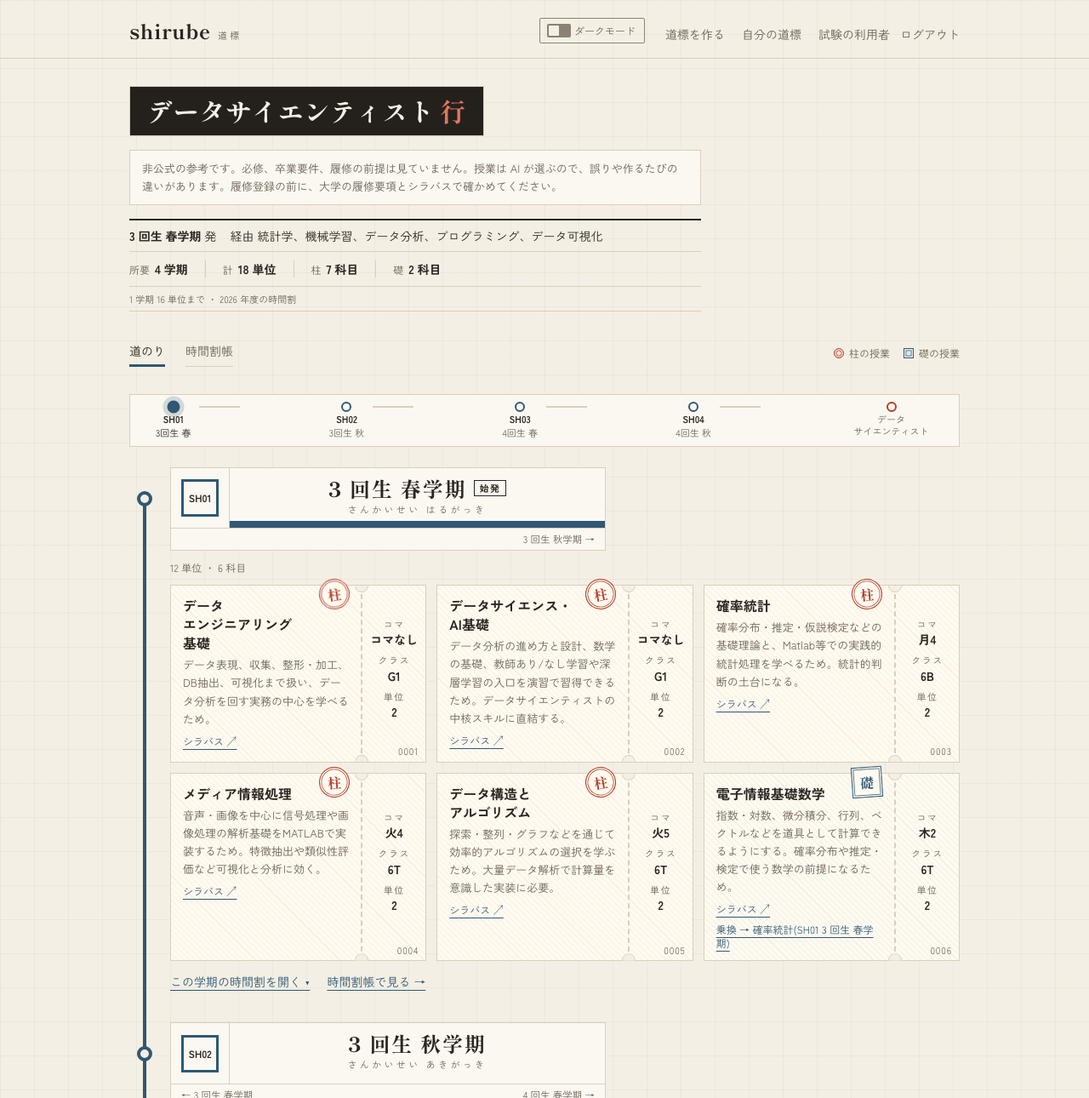
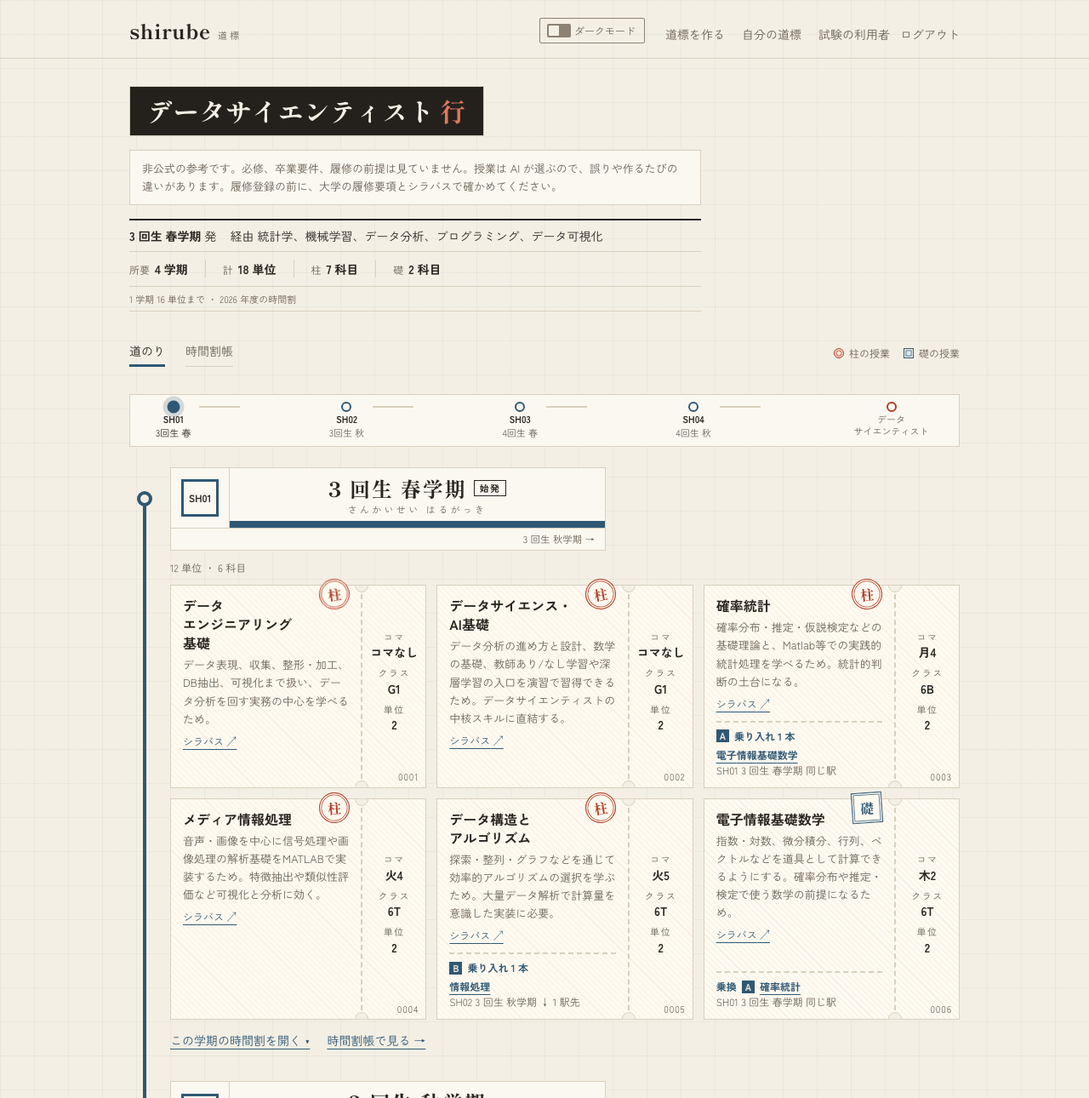
docs: README と CLAUDE.md を系統の印と乗換の欄に合わせ、切符の画像と動きの GIF を撮り直す
ADR 0086 で乗り換えの線をやめたので、線を説明する文と、線を写した
画像と GIF を替えた。

- README: 主な機能の説明を、英字の印、礎の乗換の欄、柱の乗り入れの欄、
  押すと移って戻れることに替え、動きを 3 つにして ADR 0086 への導線を
  足した。GIF と道のりの画像の代替の文も直した
- CLAUDE.md: 動きの説明から線(TransferLines、道筋、端の札、タッチの
  待ち)を外し、印と欄と移り方と戻り方を書いた。flows.spec.ts の一覧の
  乗り換えの線を乗換の欄に替えた
- docs/images: 切符が写る 3 枚(道のり、時間割帳、375px の切符)を前回と
  同じ撮り方で撮り直した。入力、作成中、結果の上部は切符が写らないので
  そのまま
- demo.gif: トップから見本の道標までスクロールし、情報処理の乗換の欄を
  押してデータ構造とアルゴリズムへ移り、戻る道で帰るところを撮った
  (幅 800、毎秒 8 コマ、80 色、ディザ無しで 5.4MB)。コマを 1 枚ずつ
  見て確かめた

Claude-Session: https://claude.ai/code/session_01Uv4W9cMkDQr3YL2szVJVhC

diff --git a/CLAUDE.md b/CLAUDE.md
@@ -30,7 +30,7 @@ frontend(`frontend/` で実行)
 
 - `pnpm install`
 - `pnpm lint && pnpm typecheck && pnpm test && pnpm format:check`(CI と同じ。テストは Vitest で `src/` の表示の決まりだけ。CI は先に `pnpm gen:api` で型を作り直し、差があれば落ちる)
-- `pnpm test:e2e` で、画面の通しの試験(Playwright、`e2e/`)を流す(初めは `pnpm exec playwright install chromium webkit`)。手元でも CI でも、試験が試験用の鍵と `SITE_URL`、本番と同じに `AUTH_URL`(`e2e/env.ts`)でビルドしてから `pnpm start --port 3100` で立て、ブラウザが呼ぶ `/api/` は全て止めてから、その試験で使うものだけを見本の道標などの決まった JSON で返し、ログインは試験用の鍵で作ったセッションで入る。差し替えていない `/api/` が呼ばれたときと、差し替えた答えを使い切らなかったときは落ちる(`answer` は GET に同じ JSON を何度でも返す。`respond` は方法と状態コードを付けた答えを書いた順に 1 つずつ返し(`until` に渡した Promise が解けるまで返さずに待てる)、書いた数より多く呼ばれたら落ちる。同じ方法と道を 2 度差し替えるとその場で誤りにする。作成中と失敗の道標は `asRunning` と `asFailed` で作る)。全ての画面を幅 375px と 1280px、明るい見た目と暗い見た目で開き(畳んだ欄は開き、フォントの読み込みを待つ)、地の方眼の線と切符の地紋、切符の切り欠きと路線の駅の点と線の疑似要素を消してから axe で WCAG 2.2 の A と AA の違反が 0 か、axe が判定できない色の差が手で測った文字(`HAND_CHECKED_CONTRAST`、axe の理由ごと)だけか、幅 320px で横にはみ出さないか、CDP の `Page.setFontSizes` でブラウザの既定の文字の大きさを 2 倍(16px と等幅の 13px を 32px と 26px)にして(ブラウザの文字の設定と同じに rem のメディアクエリも動き、px で書いた文字は大きくならない)幅 320px、375px、1280px で横にはみ出さないかと、幅 1280px で隠した要素の中の文字が横にも縦にも切れないか(縦は中の一番小さい字の 4 分の 1 を超えてはみ出したか。WCAG 1.4.4、ADR 0070、0072。はみ出した部品と切れた部品を最大 8 つ失敗の文に出す)を確かめる。`e2e/line-breaks.spec.ts` は行先表示の板、道のりの終わり、帯の終点、切符の授業名(道のり、時間割帳、置けなかった授業。幅 1280px も。半券の位置も)と、決まった文の見出し(トップ、作成中、プライバシーポリシー)と作成中の段の言葉が幅 320px と 375px で語や句の途中で折れないか(どの行も語や句をそのまま並べたものか)と、板と道のりの終わりの字が包む要素からはみ出さないか、見出しが文字を 200% にしても画面からはみ出さないか、作成中の段の言葉が文字を 200% にしても段からはみ出さないか、Chrome の読み上げの名前に句のあいだの空白が入らないか(ADR 0058、0059、0061)を確かめ、Chromium のほかに WebKit(iPhone 13 のまね)でも流す(Chrome の読み上げの木を読む試験は `@cdp` の印で Chromium だけ。ADR 0060)、`e2e/flows.spec.ts` は操作の流れ(作成中を見たあとの完成の読み上げとタブの題、もう取ったの知らせとフォーカス、動きを許す設定での半券、乗り換えの線(触れたときとフォーカスで出て、幅 320px でもはみ出さない)、道標を消す、時間割帳の曜日ごとの一覧と表、ヘッダーの見た目の切り替えの位置と Tab の順)を確かめる。CI は Google Fonts への取得の失敗で落ちたときだけ 2 回まで流し直し、試験が落ちたら記録を残す(ADR 0057)。画面を足したら `e2e/screens.spec.ts` の画面の一覧にも足し、判定できない文字が出たら手で色の差を測ってから一覧に足す
+- `pnpm test:e2e` で、画面の通しの試験(Playwright、`e2e/`)を流す(初めは `pnpm exec playwright install chromium webkit`)。手元でも CI でも、試験が試験用の鍵と `SITE_URL`、本番と同じに `AUTH_URL`(`e2e/env.ts`)でビルドしてから `pnpm start --port 3100` で立て、ブラウザが呼ぶ `/api/` は全て止めてから、その試験で使うものだけを見本の道標などの決まった JSON で返し、ログインは試験用の鍵で作ったセッションで入る。差し替えていない `/api/` が呼ばれたときと、差し替えた答えを使い切らなかったときは落ちる(`answer` は GET に同じ JSON を何度でも返す。`respond` は方法と状態コードを付けた答えを書いた順に 1 つずつ返し(`until` に渡した Promise が解けるまで返さずに待てる)、書いた数より多く呼ばれたら落ちる。同じ方法と道を 2 度差し替えるとその場で誤りにする。作成中と失敗の道標は `asRunning` と `asFailed` で作る)。全ての画面を幅 375px と 1280px、明るい見た目と暗い見た目で開き(畳んだ欄は開き、フォントの読み込みを待つ)、地の方眼の線と切符の地紋、切符の切り欠きと路線の駅の点と線の疑似要素を消してから axe で WCAG 2.2 の A と AA の違反が 0 か、axe が判定できない色の差が手で測った文字(`HAND_CHECKED_CONTRAST`、axe の理由ごと)だけか、幅 320px で横にはみ出さないか、CDP の `Page.setFontSizes` でブラウザの既定の文字の大きさを 2 倍(16px と等幅の 13px を 32px と 26px)にして(ブラウザの文字の設定と同じに rem のメディアクエリも動き、px で書いた文字は大きくならない)幅 320px、375px、1280px で横にはみ出さないかと、幅 1280px で隠した要素の中の文字が横にも縦にも切れないか(縦は中の一番小さい字の 4 分の 1 を超えてはみ出したか。WCAG 1.4.4、ADR 0070、0072。はみ出した部品と切れた部品を最大 8 つ失敗の文に出す)を確かめる。`e2e/line-breaks.spec.ts` は行先表示の板、道のりの終わり、帯の終点、切符の授業名(道のり、時間割帳、置けなかった授業。幅 1280px も。半券の位置も)と、決まった文の見出し(トップ、作成中、プライバシーポリシー)と作成中の段の言葉が幅 320px と 375px で語や句の途中で折れないか(どの行も語や句をそのまま並べたものか)と、板と道のりの終わりの字が包む要素からはみ出さないか、見出しが文字を 200% にしても画面からはみ出さないか、作成中の段の言葉が文字を 200% にしても段からはみ出さないか、Chrome の読み上げの名前に句のあいだの空白が入らないか(ADR 0058、0059、0061)を確かめ、Chromium のほかに WebKit(iPhone 13 のまね)でも流す(Chrome の読み上げの木を読む試験は `@cdp` の印で Chromium だけ。ADR 0060)、`e2e/flows.spec.ts` は操作の流れ(作成中を見たあとの完成の読み上げとタブの題、もう取ったの知らせとフォーカス、動きを許す設定での半券、乗換の欄(押すと相手の切符へ移って授業名にフォーカスし、戻るで押したボタンに戻る。幅 320px と 1280px、柱の乗り入れの欄から礎へ、時間割帳で別の学期の柱へ)、道標を消す、時間割帳の曜日ごとの一覧と表、ヘッダーの見た目の切り替えの位置と Tab の順)を確かめる。CI は Google Fonts への取得の失敗で落ちたときだけ 2 回まで流し直し、試験が落ちたら記録を残す(ADR 0057)。画面を足したら `e2e/screens.spec.ts` の画面の一覧にも足し、判定できない文字が出たら手で色の差を測ってから一覧に足す
 - API を変えたら、backend で `uv run python -m tests.openapi_document`(OpenAPI を `frontend/src/lib/api/openapi.json` に書き出す)、frontend で `pnpm gen:api`(`src/lib/api/schema.ts` を作る)を実行し、どちらもコミットする(ADR 0030)。backend のテストが OpenAPI の食い違いを見つける
 - compose の外で動かすときは `BACKEND_URL=http://localhost:8000 direnv exec . pnpm dev`(ログインと転送に `AUTH_SECRET`、`AUTH_GOOGLE_ID`、`AUTH_GOOGLE_SECRET`、`AUTH_JWT_SECRET` が要る)。本番ビルド(`pnpm build && pnpm start`)で動かすときは、`SITE_URL` と、同じ値の `AUTH_URL`(`http://localhost:3005` など)も要る(SITE_URL が無いとビルドが止まり、AUTH_URL が無いと Auth.js が UntrustedHost でセッションを無効にするか、戻り先を待ち受けの名前で組む。ADR 0077)。開発用サーバーは next/font の取得が 3 秒で打ち切られて全ページが 500 になることがあり、立ち上げ直すか本番ビルドで確かめる
 - OG 画像(`opengraph-image.png`)、`apple-icon.png`、`favicon.ico`、`public/icon-192.png` と `icon-512.png` は、backend で `uv run python ../frontend/brand/make.py` を実行して作る(`frontend/brand/` の HTML を Playwright で開き、Google Fonts の読み込みを待って撮る。アイコンは `src/app/icon.svg` を読む。Pillow は backend の dev グループにある。CI の backend の job が `uv run ruff check --line-length 100 ../frontend/brand/make.py` で確かめる)。`icon.svg` と `opengraph-image.alt.txt` は手で書く(alt は末尾に改行を入れない。Next がそのまま og:image:alt に入れる)。画像や alt を変えたら `frontend/.next` を消してからビルドする(Turbopack のキャッシュが古い metadata を出す)(ADR 0045)
@@ -55,7 +55,7 @@ frontend(`frontend/` で実行)
 
 `main.py`、`presentation/cli/`、`presentation/worker.py` は合成ルートで、infrastructure の実装を組み立てて application のポートの型として渡す。共有する組み立ての部品は `presentation/composition.py` に置く。API は `presentation/api/app.py` の `create_app` が組み立て済みのユースケースを受け取り(ADR 0029)、テストはフェイクを渡す。それ以外の presentation のコードは infrastructure を import しない。
 
-frontend は API を呼んで表示するだけで、業務ロジックを置かない。バックエンドは Next.js の Route Handler(`src/app/api/`)経由で呼ぶ。Route Handler はログインを確かめ、`src/lib/backend.ts` で Google の sub を入れた JWT を付けて転送するだけ(ADR 0028)。転送の前に、状態を変える要求(GET、HEAD、OPTIONS 以外)の送り元を `Sec-Fetch-Site`(無ければ `Origin` と、Next が付ける `X-Forwarded-Host` のホスト名)で確かめてほかのサイトからなら 403、本文は 64KB まで(超えれば 413)にする(ADR 0039)。画面は `src/app/` の入力(`/`)、結果(`/plans/[id]`)、一覧(`/plans`)と、ログインの要らない利用規約(`/terms`)とプライバシーポリシー(`/privacy`、どちらも `LegalDocument` と `ContactSection` の部品で同じ体裁)、ログイン(`/login`)で、前の 3 つはどれも `LoginRequired` でログインを確かめてから、Client Component(`src/components/`)が Route Handler だけを呼ぶ(ADR 0030)。API の型は、openapi-typescript が生成した `schema.ts` から `src/lib/api/client.ts` が取り出し、表示の決まり(週の時間割の並べ方、ポーリングの打ち切り、ラベル、作成中の段の進み、見え方のクエリ、道のりの合計、駅番号、学期の読み、礎から柱への乗り換え、行き先と授業名の語の切れ目(`words.ts`。開き括弧の前と 1 字の助詞のあとでも折り、閉じ括弧のあとの 1 字の語はつなぐ。語の端の括弧は隣の 1 字と折らない組にする。ADR 0061、0062))は `src/lib/` に置いて Vitest で確かめる。部品は Tailwind だけで書く。見た目は ADR 0031 の路線図を ADR 0033 の「しるべ線」に深めたもの(行先表示(狭い画面では字を縮め、語の切れ目でだけ折る。ADR 0058)、乗換案内のような要約(「発・経由(スキル)」「所要|計|柱|礎」「1 学期の上限・年度」の 3 段)、学期は駅名標、授業は切符(柱は朱の丸判、礎は紺の角判を、結果の切符では上の辺に半分かけて押し(見本の切符と共有カードは切符の中)、傾きは `stampTilt` で授業名から決める。地は柱と礎の色の細い斜線の地紋、半券の下に道のりの順の通し番号(`ticketSerials`)。切符の左上の柱と礎の字は読み上げにだけ残し、乗り換えの無い礎の「X の礎」だけ見せる。ADR 0083。授業名は全ての幅で語の切れ目でだけ折り、幅 640px 未満では半券を下に横並びにする。授業名ごとの語の並びは、トップはサーバーで、結果の画面はブラウザで 1 度だけ作り、`CourseWordsProvider` で切符に配る。ADR 0061)、礎は柱への乗り換え、道のりの終わりと帯の終点は行き先(職業)で駅番号を付けない(ADR 0036。道のりの終わりは板と同じに字を縮めて、帯の終点とともに語の切れ目でだけ折る。行き先は呼ぶ側で 1 度だけ名前と語の並びの組(`destinationOf`)を作って板と道のりに渡し、板と道のりの終わりは `DestinationName` で名前の最後の 1 字(閉じ括弧で終わるときは括弧の組)と「行」「へ」を折らない組にする。トップの見本の道のりはサーバーで語に分けて渡し、ブラウザで分け直さない。ADR 0061)、道のりの上に車内の路線図の帯、切符に触れると乗り換えでつながる切符が光る、前の学期に開講された授業の切符に「もう取った」、外した授業は「もう取った授業」に並べて戻せる、入力の画面に「もう取ったと答えた授業」を畳んで置き取り消せる、行先表示のすぐ下に非公式で必修や卒業要件を見ていないことの注意、切符に原ページへの「シラバス ↗」、終わりに出典。ADR 0040。結果の画面と一覧に「消す」(作成中でも置き、backend の 409 の文をその場に出す)、一覧の下に退会(作った道標の全件数ともう取ったと答えた授業の数を出す)。どちらもその場で「本当に消す / やめる」を出し、やめるにフォーカスを置く。退会したらサーバーアクションでログアウトしてトップへ。ADR 0041。全ページの下にフッター(非公式の断り、利用規約、プライバシーポリシー、GitHub と Issue)。ログインのボタンは同意の文と組で、ヘッダーのログインはそのボタンを置いた `/login` へのリンク(ログイン済みで開いたら入力の画面へ移す。ログインのあとも Auth.js が `/login` に戻すので、そこから移る)。ADR 0042)で、器は罫と直角(角丸、柔らかい影、錠剤形のボタンやタブや札を使わない。2px の墨の罫は塊の始まり、1px の line は区切り、破線は切り取り線と、空きやまだ通っていない道(空いたコマ、置けなかった授業、作成中のこれからの段)だけ、影は画面に浮く知らせと時間割の付箋の 2px のずれだけ。タブは 1 つずつ下に罫を引き、選んだタブだけ路線の色の 3px にする `tabClass`(太さは替えない)、枠のボタンは `OUTLINED`、主のボタンは墨の `PRIMARY_BUTTON`、危険のボタンは `DANGER_BUTTON`。ADR 0083)。色は `src/app/globals.css` の CSS の変数(明るい見た目が既定、`data-theme="dark"` で暗い見た目。Tailwind の `dark:` はこの `data-theme` に結んであり、変数で替えられない見た目にだけ使う。切り替えはヘッダーに置き、画面に固定しない。ADR 0082)から Tailwind の色(paper、ink、pillar、route など)として引き、画面の言葉は中心を「柱」、土台を「礎」と呼ぶ。結果の画面の見え方(道のり / 時間割帳)と学期は `?view=timetable&semester=3-autumn` のクエリに持ち、`QueryLink` が `history.pushState` で変える(Next の useSearchParams と連動し、サーバーへ往復しない)。ログイン前のトップは `src/lib/sample-plan.ts` の見本の道標を見せる。決まった文の見出し(トップ、作成中、プライバシーポリシー)と作成中の段の言葉(`STAGE_LABELS`)は手で句に分け、`Phrases` が句のあいだに aria-hidden の `<wbr>` を挟んで `keep-all` で句の切れ目でだけ折る(行より長い句だけ句の中で折る。`<wbr>` を読み上げから外して、読み上げの名前に空白を入れない。ADR 0059)。トップの見出しの横(幅 768px 未満では下)には、共有カードと同じ見本の切符 2 枚と「見本 ── 職業」の断り(`HeroTickets`。断りは `sampleLabel`。選び方、理由の最後の一文、授業名の全角の英数字を半角にすること、半券のコマの書き方は `src/lib/sample-tickets.ts`)を置き、開いたときに配って柱の判を押し、マウスを乗せると持ち上がって傾く(切符はサーバーで描き、傾きだけ `Tilt` がクライアントで追う。傾けるのはマウスを乗せられる画面だけ。切符の大きさは rem で、2 枚を上から流し込み、奥の切符の文字を隠さない。ADR 0047)。無いページは `not-found.tsx`、描けなかったときは `error.tsx`(root layout が壊れたときは `global-error.tsx`。見た目の script とフォント(`src/lib/fonts.ts`)は root layout と共有)で日本語に出す。API の失敗は `FailureNotice`(何を読めなかったかの文、失敗の文、読み直すボタン。全面の知らせは読み直す前に消し、一部の知らせは結果が返るまで残す)か同じ文(`messageOf`)で出し、全面の知らせの枠は `Notice`(ページに h1 が残る場所では h2、`/plans/[id]` は `LoginRequired` の `heading="h1"`)で、英語の文を見せない。ログインが切れたとき(401)は `lib/api/client.ts` が購読者に知らせ、`LoginRequired` の中の `SignedOutGate` が 1 か所でページの中身を「ログインが切れました」と「ログインし直す」(ページを読み直す)に替える。無い道標(404)は読み直すボタンを出さず一覧への導線(ADR 0044)。動きは `motion-safe:` で付け、動きを減らす設定では出さない(終わった形をすぐ出す)。動きは ADR 0084 の 4 つ: 駅名標の紺の帯が見えたら伸びる、作成中から完成に替わる瞬間だけ方向幕の行先を巻き取る(`sawProgress`)、切符に触れる(マウスかフォーカス)と乗り換えでつながる切符まで線を引く(`TransferLines`。道筋は `lib/transfer-lines.ts` で、同じ学期の同じ列は列の左の溝、隣の行は行のあいだの溝、ほかは行のあいだの溝から道のりの左の溝を回り、途中の学期の字を横切らない。切符と駅名標の後ろに描く。相手が画面の外(上に貼り付いた帯の下を含む)なら端に駅番号と授業名の札。タッチの画面では「乗換 →」で線を引いてから相手へ移る)、「もう取った」を押すと答えを待つあいだ半券が裂ける(断られたら戻す)。時間は `lib/motion.ts` で決め、CSS の変数で渡す。アクセシビリティは WCAG 2.2 の AA を目安にする(ADR 0056): フォーカスの輪は `globals.css` の `:focus-visible`(路線の色の 2px)、操作する部品の枠は `--edge`(Tailwind の `edge`。切符の縁などの飾りの線は `line`)、押せる部品は 24 × 24px 以上(`styles.ts` の `TARGET` から組む `STANDALONE_LINK`、`NAV_LINK` と `SMALL_BUTTON`。文の中のリンクは `TEXT_LINK` のまま)、11px 未満の文字は使わない。小さい文字は rem のテーマの名前 `text-label`(11px)、`text-direction`(11.5px)、`text-fine`(13px)で書き、px で書かない(ブラウザの文字の設定に従わせる。SVG の中は絵と一緒に大きくなるので px のまま。字と一緒に大きくなる飾りの位置も rem。ADR 0071)。帯の下に隠れないよう、帯を出すときは道のりの中に `scroll-mt-28`。スクリプトでフォーカスを移す知らせは見えている知らせに輪を付け、もう取ったのあとの知らせは、キーボードで答えたときはフォーカスが外へ移るまで残す。作成中を見たあとの完成は、置いたままの読み上げの枠(role="status")とタブの題(`planTitlePrefix`、`completionNotice`)で伝え、フォーカスは動かさない。週の時間割は幅 640px 未満では曜日ごとの一覧(`daySchedules`)にする。`next.config.ts` の `headers` が全ての経路に `src/lib/security-headers.ts` のヘッダー(nonce 無しの CSP、X-Content-Type-Options、X-Frame-Options、Referrer-Policy、Permissions-Policy。HSTS は本番のプロキシ)を付ける。検索に載せるかはページの metadata の `robots` で、root layout の既定は noindex、トップと規約とポリシーだけ `INDEXED`(新しいページは載らない)。`app/robots.ts` は `/api/` だけ拒否、`app/sitemap.ts` は `PUBLIC_PAGES`、Auth.js の組み込みのページは使わず `/login` に向ける(`pages`)、`app/manifest.ts`、`app/icon.svg`、`app/favicon.ico`、`app/apple-icon.png`、`app/opengraph-image.png`(キャッチフレーズ「履修に迷ったら、なりたい職業から。」と、その下の一文「なぜ学ぶかが見える、卒業までの時間割。」。どちらも `src/lib/site.ts` の `CATCHPHRASE` と `SUBHEAD` で、トップの見出しとその下の一文も同じ。カードと代替の文にそれがあるかを Vitest が確かめる。右の絵は見本の道標の授業の切符 2 枚(柱と礎)で ADR 0046。授業名、理由、コマ、単位がトップの切符と同じかを Vitest が確かめ、ずれたら撮り直す。ADR 0047。`frontend/brand/make.py` で撮る)と `opengraph-image.alt.txt`。OG の title と description はページの title から Next が引き継ぐ。ADR 0045。
+frontend は API を呼んで表示するだけで、業務ロジックを置かない。バックエンドは Next.js の Route Handler(`src/app/api/`)経由で呼ぶ。Route Handler はログインを確かめ、`src/lib/backend.ts` で Google の sub を入れた JWT を付けて転送するだけ(ADR 0028)。転送の前に、状態を変える要求(GET、HEAD、OPTIONS 以外)の送り元を `Sec-Fetch-Site`(無ければ `Origin` と、Next が付ける `X-Forwarded-Host` のホスト名)で確かめてほかのサイトからなら 403、本文は 64KB まで(超えれば 413)にする(ADR 0039)。画面は `src/app/` の入力(`/`)、結果(`/plans/[id]`)、一覧(`/plans`)と、ログインの要らない利用規約(`/terms`)とプライバシーポリシー(`/privacy`、どちらも `LegalDocument` と `ContactSection` の部品で同じ体裁)、ログイン(`/login`)で、前の 3 つはどれも `LoginRequired` でログインを確かめてから、Client Component(`src/components/`)が Route Handler だけを呼ぶ(ADR 0030)。API の型は、openapi-typescript が生成した `schema.ts` から `src/lib/api/client.ts` が取り出し、表示の決まり(週の時間割の並べ方、ポーリングの打ち切り、ラベル、作成中の段の進み、見え方のクエリ、道のりの合計、駅番号、学期の読み、礎から柱への乗り換え、行き先と授業名の語の切れ目(`words.ts`。開き括弧の前と 1 字の助詞のあとでも折り、閉じ括弧のあとの 1 字の語はつなぐ。語の端の括弧は隣の 1 字と折らない組にする。ADR 0061、0062))は `src/lib/` に置いて Vitest で確かめる。部品は Tailwind だけで書く。見た目は ADR 0031 の路線図を ADR 0033 の「しるべ線」に深めたもの(行先表示(狭い画面では字を縮め、語の切れ目でだけ折る。ADR 0058)、乗換案内のような要約(「発・経由(スキル)」「所要|計|柱|礎」「1 学期の上限・年度」の 3 段)、学期は駅名標、授業は切符(柱は朱の丸判、礎は紺の角判を、結果の切符では上の辺に半分かけて押し(見本の切符と共有カードは切符の中)、傾きは `stampTilt` で授業名から決める。地は柱と礎の色の細い斜線の地紋、半券の下に道のりの順の通し番号(`ticketSerials`)。切符の左上の柱と礎の字は読み上げにだけ残し、乗り換えの無い礎の「X の礎」だけ見せる。ADR 0083。授業名は全ての幅で語の切れ目でだけ折り、幅 640px 未満では半券を下に横並びにする。授業名ごとの語の並びは、トップはサーバーで、結果の画面はブラウザで 1 度だけ作り、`CourseWordsProvider` で切符に配る。ADR 0061)、礎は柱への乗り換え、道のりの終わりと帯の終点は行き先(職業)で駅番号を付けない(ADR 0036。道のりの終わりは板と同じに字を縮めて、帯の終点とともに語の切れ目でだけ折る。行き先は呼ぶ側で 1 度だけ名前と語の並びの組(`destinationOf`)を作って板と道のりに渡し、板と道のりの終わりは `DestinationName` で名前の最後の 1 字(閉じ括弧で終わるときは括弧の組)と「行」「へ」を折らない組にする。トップの見本の道のりはサーバーで語に分けて渡し、ブラウザで分け直さない。ADR 0061)、道のりの上に車内の路線図の帯、切符に触れると乗り換えでつながる切符が光る、前の学期に開講された授業の切符に「もう取った」、外した授業は「もう取った授業」に並べて戻せる、入力の画面に「もう取ったと答えた授業」を畳んで置き取り消せる、行先表示のすぐ下に非公式で必修や卒業要件を見ていないことの注意、切符に原ページへの「シラバス ↗」、終わりに出典。ADR 0040。結果の画面と一覧に「消す」(作成中でも置き、backend の 409 の文をその場に出す)、一覧の下に退会(作った道標の全件数ともう取ったと答えた授業の数を出す)。どちらもその場で「本当に消す / やめる」を出し、やめるにフォーカスを置く。退会したらサーバーアクションでログアウトしてトップへ。ADR 0041。全ページの下にフッター(非公式の断り、利用規約、プライバシーポリシー、GitHub と Issue)。ログインのボタンは同意の文と組で、ヘッダーのログインはそのボタンを置いた `/login` へのリンク(ログイン済みで開いたら入力の画面へ移す。ログインのあとも Auth.js が `/login` に戻すので、そこから移る)。ADR 0042)で、器は罫と直角(角丸、柔らかい影、錠剤形のボタンやタブや札を使わない。2px の墨の罫は塊の始まり、1px の line は区切り、破線は切り取り線と、空きやまだ通っていない道(空いたコマ、置けなかった授業、作成中のこれからの段)だけ、影は画面に浮く知らせと時間割の付箋の 2px のずれだけ。タブは 1 つずつ下に罫を引き、選んだタブだけ路線の色の 3px にする `tabClass`(太さは替えない)、枠のボタンは `OUTLINED`、主のボタンは墨の `PRIMARY_BUTTON`、危険のボタンは `DANGER_BUTTON`。ADR 0083)。色は `src/app/globals.css` の CSS の変数(明るい見た目が既定、`data-theme="dark"` で暗い見た目。Tailwind の `dark:` はこの `data-theme` に結んであり、変数で替えられない見た目にだけ使う。切り替えはヘッダーに置き、画面に固定しない。ADR 0082)から Tailwind の色(paper、ink、pillar、route など)として引き、画面の言葉は中心を「柱」、土台を「礎」と呼ぶ。結果の画面の見え方(道のり / 時間割帳)と学期は `?view=timetable&semester=3-autumn` のクエリに持ち、`QueryLink` が `history.pushState` で変える(Next の useSearchParams と連動し、サーバーへ往復しない)。ログイン前のトップは `src/lib/sample-plan.ts` の見本の道標を見せる。決まった文の見出し(トップ、作成中、プライバシーポリシー)と作成中の段の言葉(`STAGE_LABELS`)は手で句に分け、`Phrases` が句のあいだに aria-hidden の `<wbr>` を挟んで `keep-all` で句の切れ目でだけ折る(行より長い句だけ句の中で折る。`<wbr>` を読み上げから外して、読み上げの名前に空白を入れない。ADR 0059)。トップの見出しの横(幅 768px 未満では下)には、共有カードと同じ見本の切符 2 枚と「見本 ── 職業」の断り(`HeroTickets`。断りは `sampleLabel`。選び方、理由の最後の一文、授業名の全角の英数字を半角にすること、半券のコマの書き方は `src/lib/sample-tickets.ts`)を置き、開いたときに配って柱の判を押し、マウスを乗せると持ち上がって傾く(切符はサーバーで描き、傾きだけ `Tilt` がクライアントで追う。傾けるのはマウスを乗せられる画面だけ。切符の大きさは rem で、2 枚を上から流し込み、奥の切符の文字を隠さない。ADR 0047)。無いページは `not-found.tsx`、描けなかったときは `error.tsx`(root layout が壊れたときは `global-error.tsx`。見た目の script とフォント(`src/lib/fonts.ts`)は root layout と共有)で日本語に出す。API の失敗は `FailureNotice`(何を読めなかったかの文、失敗の文、読み直すボタン。全面の知らせは読み直す前に消し、一部の知らせは結果が返るまで残す)か同じ文(`messageOf`)で出し、全面の知らせの枠は `Notice`(ページに h1 が残る場所では h2、`/plans/[id]` は `LoginRequired` の `heading="h1"`)で、英語の文を見せない。ログインが切れたとき(401)は `lib/api/client.ts` が購読者に知らせ、`LoginRequired` の中の `SignedOutGate` が 1 か所でページの中身を「ログインが切れました」と「ログインし直す」(ページを読み直す)に替える。無い道標(404)は読み直すボタンを出さず一覧への導線(ADR 0044)。動きは `motion-safe:` で付け、動きを減らす設定では出さない(終わった形をすぐ出す)。動きは ADR 0084 の 3 つ: 駅名標の紺の帯が見えたら伸びる、作成中から完成に替わる瞬間だけ方向幕の行先を巻き取る(`sawProgress`)、「もう取った」を押すと答えを待つあいだ半券が裂ける(断られたら戻す)。乗り換えは線を引かず、切符に刷る(ADR 0086): 礎が乗り入れる柱に道のりの順で英字の系統の印(A、B…、路線の色の地に白抜きの角枠)を振り、礎の切符の下にミシン目で区切った乗換の欄(「乗換 [B] 柱の授業名」と駅番号と学期と「↓ n 駅先」「↑ n 駅手前」「同じ駅」)、柱の切符の下に「[B] 乗り入れ n 本」と礎の一覧を置く(`transfer-stubs.tsx`、つながりと印は `lib/roadmap.ts` の `transferRoutes`)。欄を押すと相手の切符へスクロールして授業名にフォーカスを移し、着いた切符の枠を路線の色で太くして授業名の下に「← 元の授業(駅番号 学期)へ戻る」を出す(別の乗換か戻るを押すまで残し、戻ると押したボタンにフォーカスを返す。時間割帳では相手の学期に替えてから移る)。触れたときは、つながる切符に輪を付けるだけで新しい中身は出さない時間は `lib/motion.ts` で決め、CSS の変数で渡す。アクセシビリティは WCAG 2.2 の AA を目安にする(ADR 0056): フォーカスの輪は `globals.css` の `:focus-visible`(路線の色の 2px)、操作する部品の枠は `--edge`(Tailwind の `edge`。切符の縁などの飾りの線は `line`)、押せる部品は 24 × 24px 以上(`styles.ts` の `TARGET` から組む `STANDALONE_LINK`、`NAV_LINK` と `SMALL_BUTTON`。文の中のリンクは `TEXT_LINK` のまま)、11px 未満の文字は使わない。小さい文字は rem のテーマの名前 `text-label`(11px)、`text-direction`(11.5px)、`text-fine`(13px)で書き、px で書かない(ブラウザの文字の設定に従わせる。SVG の中は絵と一緒に大きくなるので px のまま。字と一緒に大きくなる飾りの位置も rem。ADR 0071)。帯の下に隠れないよう、帯を出すときは道のりの中に `scroll-mt-28`。スクリプトでフォーカスを移す知らせは見えている知らせに輪を付け、もう取ったのあとの知らせは、キーボードで答えたときはフォーカスが外へ移るまで残す。作成中を見たあとの完成は、置いたままの読み上げの枠(role="status")とタブの題(`planTitlePrefix`、`completionNotice`)で伝え、フォーカスは動かさない。週の時間割は幅 640px 未満では曜日ごとの一覧(`daySchedules`)にする。`next.config.ts` の `headers` が全ての経路に `src/lib/security-headers.ts` のヘッダー(nonce 無しの CSP、X-Content-Type-Options、X-Frame-Options、Referrer-Policy、Permissions-Policy。HSTS は本番のプロキシ)を付ける。検索に載せるかはページの metadata の `robots` で、root layout の既定は noindex、トップと規約とポリシーだけ `INDEXED`(新しいページは載らない)。`app/robots.ts` は `/api/` だけ拒否、`app/sitemap.ts` は `PUBLIC_PAGES`、Auth.js の組み込みのページは使わず `/login` に向ける(`pages`)、`app/manifest.ts`、`app/icon.svg`、`app/favicon.ico`、`app/apple-icon.png`、`app/opengraph-image.png`(キャッチフレーズ「履修に迷ったら、なりたい職業から。」と、その下の一文「なぜ学ぶかが見える、卒業までの時間割。」。どちらも `src/lib/site.ts` の `CATCHPHRASE` と `SUBHEAD` で、トップの見出しとその下の一文も同じ。カードと代替の文にそれがあるかを Vitest が確かめる。右の絵は見本の道標の授業の切符 2 枚(柱と礎)で ADR 0046。授業名、理由、コマ、単位がトップの切符と同じかを Vitest が確かめ、ずれたら撮り直す。ADR 0047。`frontend/brand/make.py` で撮る)と `opengraph-image.alt.txt`。OG の title と description はページの title から Next が引き継ぐ。ADR 0045。
 
 ## 決まっていること(詳細は ADR)
 

diff --git a/README.md b/README.md
@@ -28,7 +28,7 @@
 - 中心の適合率が低めなのは、判定者の中心が選び手より狭いうえに、ADR 0080 で柱をわざと広げたためです
 - 推薦 1 件は約 1 円(初めての職業で 1.07 円。同じ職業名の読み取りを覚えると下がります)、道標 1 件を作るのは 10〜30 秒です。道標の受け付けは 1 人 1 日 3 件、全体で 1 日 30 件までにし、OpenAI は前払いで自動の補充を切って、使いすぎの最後の歯止めにしています([ADR 0038](docs/adr/0038-plan-quota.md))
 
-![トップから見本の道標までスクロールし、礎の切符に触れると、乗り換えでつながる柱の切符まで線が引かれる様子](docs/images/demo.gif)
+![トップから見本の道標までスクロールし、礎の切符の乗換の欄を押すと柱の切符へ移って戻る道が出て、戻るで元の切符に帰る様子](docs/images/demo.gif)
 
 > 大学とは関係のない個人の非公式のアプリです。必修、卒業要件、履修の前提は見ていません。授業は AI が選ぶので、誤りや作るたびの違いがあります。
 
@@ -45,9 +45,9 @@
 
 ## 主な機能
 
-![結果の画面。職業の行先、発・経由・所要の要約、学期ごとの駅名標と、授業ごとの切符(柱か礎かの判子、選んだ理由、コマ、単位、通し番号)](docs/images/result-route-1280.png)
+![結果の画面。職業の行先、発・経由・所要の要約、学期ごとの駅名標と、授業ごとの切符(柱か礎かの判子、選んだ理由、コマ、単位、通し番号、乗換と乗り入れの欄)](docs/images/result-route-1280.png)
 
-結果の画面は、学期を駅、授業を切符に見立てた路線図です。切符には柱か礎かの判子、選んだ理由、コマ、単位、シラバスの原ページへのリンクを載せ、礎の切符に触れると、つながる柱の切符まで乗り換えの線を引きます(礎から柱への乗り換え)。動きは題材から出した 4 つ(駅名標の帯、完成の瞬間の方向幕、乗り換えの線、「もう取った」で半券が裂ける)に絞り、動きを減らす設定では止めます([ADR 0083](docs/adr/0083-ruled-refinement.md)、[0084](docs/adr/0084-route-motions.md))。
+結果の画面は、学期を駅、授業を切符に見立てた路線図です。切符には柱か礎かの判子、選んだ理由、コマ、単位、シラバスの原ページへのリンクを載せ、礎から柱への乗り換えは、駅の路線記号のような英字の印を両方の切符に刷り、礎の切符の下の乗換の欄に柱の授業名、学期、何駅先かを、柱の切符の下に乗り入れる礎の一覧を載せます。欄を押すと相手の切符へ移り、戻るで元の切符に帰れます。動きは題材から出した 3 つ(駅名標の帯、完成の瞬間の方向幕、「もう取った」で半券が裂ける)に絞り、動きを減らす設定では止めます([ADR 0083](docs/adr/0083-ruled-refinement.md)、[0084](docs/adr/0084-route-motions.md)、[0086](docs/adr/0086-transfer-marks.md))。
 
 | 職業と回生を入れる | 学期ごとの時間割帳 |
 |---|---|
